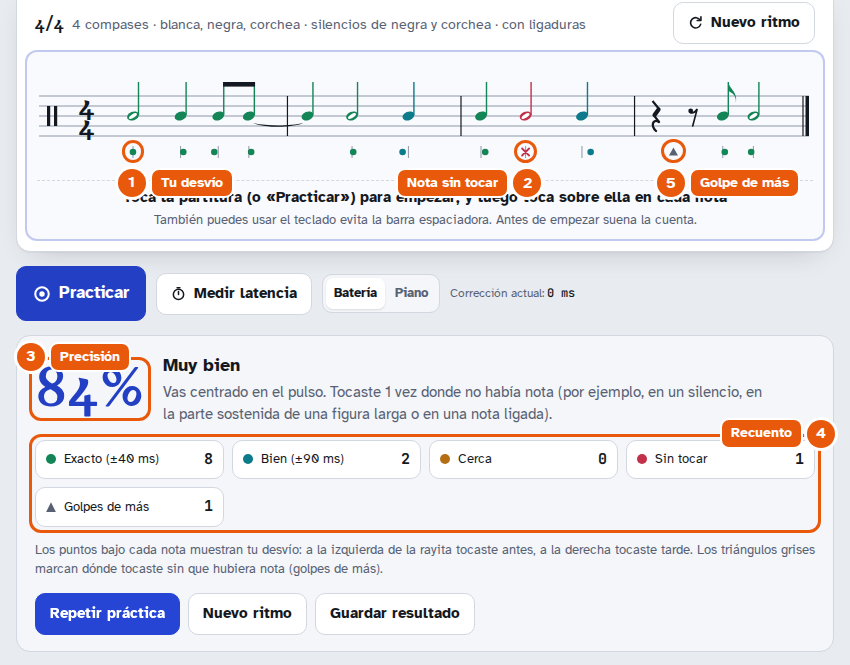
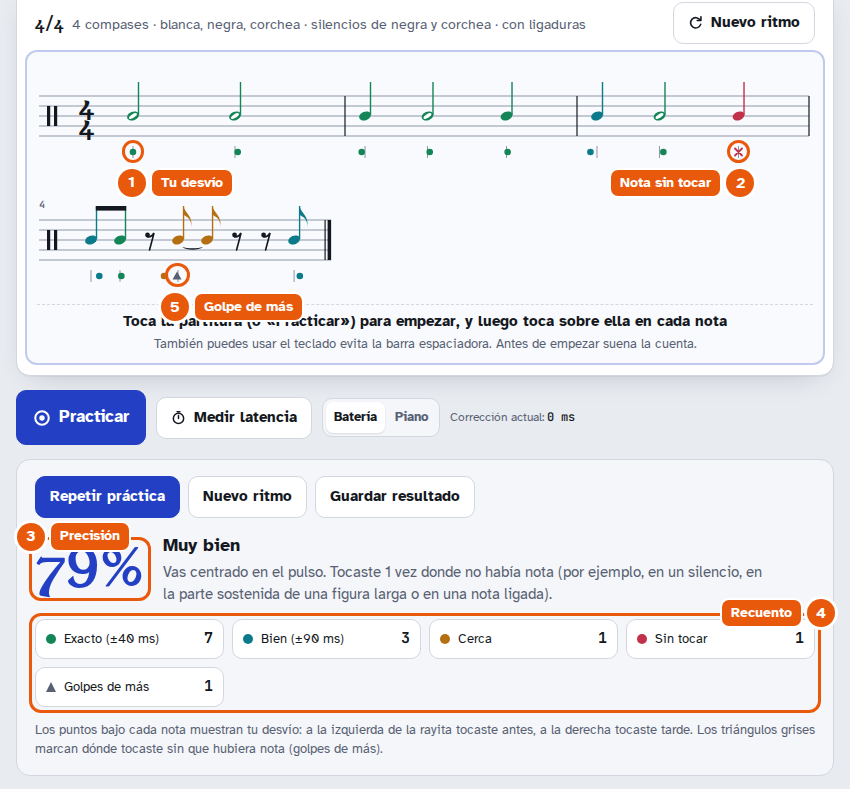
Botones de resultados arriba, junto a la partitura
- «Siguiente nivel», «Repetir práctica», «Nuevo ritmo» y «Guardar resultado»
  pasan a estar encima del porcentaje. «Siguiente nivel» solo aparece al
  superar un nivel de la campaña y es entonces el botón principal.
- Las estrellas y el mensaje del nivel quedan justo debajo del porcentaje.
- Al mostrar los resultados, la página se desplaza lo justo para que se vean
  los botones (también con el botón flotante en móvil).
- Captura de resultados del README y CLAUDE.md actualizados.

Claude-Session: https://claude.ai/code/session_01KR51CwVVXhtFmUshsMceNd

Changed region(s): [[0.0, 0.1203, 1.0, 0.9624], [0.0306, 0.0, 0.9788, 0.0902], [0.3976, 0.5113, 0.6729, 0.5414]]

diff --git a/index.html b/index.html
@@ -94,9 +94,21 @@
       </section>
 
       <section class="results" id="results" hidden>
+        <!-- acciones arriba, junto a la partitura; «Siguiente nivel» solo al superar un nivel de la campaña -->
+        <div class="res-actions" id="resActions">
+          <button class="btn primary" id="rcNext" type="button" hidden>Siguiente nivel</button>
+          <button class="btn primary" id="rAgain" type="button">Repetir práctica</button>
+          <button class="btn" id="rNew" type="button">Nuevo ritmo</button>
+          <button class="btn" id="rSave" type="button" hidden>Guardar resultado</button>
+          <span class="saved-note" id="rSaved" hidden></span>
+        </div>
         <div class="res-top">
           <div class="pct" id="rPct">0%</div>
           <div><h3 id="rHead"></h3><p id="rTrend"></p></div>
+        </div>
+        <div class="res-camp" id="rCamp" hidden>
+          <span class="stars" id="rcStars"></span>
+          <p id="rcText"></p>
         </div>
         <ul class="counts">
           <li><span class="sw-dot" style="background:var(--good)"></span>Exacto (±40 ms)<span class="n" id="cExact">0</span></li>
@@ -111,18 +123,7 @@
           <li><span class="sw-dot" style="background:var(--near)"></span>Soltaste antes<span class="n" id="dShort">0</span></li>
           <li><span class="sw-dot" style="background:var(--near)"></span>Soltaste tarde<span class="n" id="dLong">0</span></li>
         </ul>
-        <div class="res-camp" id="rCamp" hidden>
-          <span class="stars" id="rcStars"></span>
-          <p id="rcText"></p>
-          <button class="btn primary" id="rcNext" type="button">Siguiente nivel</button>
-        </div>
         <p class="res-note">Los puntos bajo cada nota muestran tu desvío: a la izquierda de la rayita tocaste antes, a la derecha tocaste tarde. Los triángulos grises marcan dónde tocaste sin que hubiera nota (golpes de más).<span id="durNote" hidden> En modo piano, la barra de debajo compara cuánto mantuviste la nota (color) con lo que debía durar (gris); la rayita marca dónde tenías que soltar.</span></p>
-        <div class="res-actions">
-          <button class="btn primary" id="rAgain" type="button">Repetir práctica</button>
-          <button class="btn" id="rNew" type="button">Nuevo ritmo</button>
-          <button class="btn" id="rSave" type="button" hidden>Guardar resultado</button>
-          <span class="saved-note" id="rSaved" hidden></span>
-        </div>
       </section>
     </section>
 
@@ -965,6 +966,9 @@ function showResults(notes, holds, endT){
     lvl: stageMode==='campana'?levelIdx:null, lid: stageMode==='campana'?LEVELS[levelIdx].id:null, sig:score.key, grp:score.grp, bars:score.bars, bpm:curBpm(), pct, n:N,
     exact:c.exact, good:c.good, near:c.near, miss:c.miss, extra:extras, mean, play:holdMode?'piano':'bateria', pen:!!set.penalize});
   $('#results').hidden=false;
+  // que los botones de los resultados queden a la vista (sin tapar la partitura más de lo necesario)
+  const ab=$('#resActions').getBoundingClientRect(), room=innerHeight-fabReserve();
+  if(ab.bottom>room) scrollTo({top:scrollY+ab.bottom-room+12, behavior:'smooth'});
 }
 
 /* ---------- Medición de latencia ---------- */
@@ -1259,7 +1263,8 @@ function afterPractice(r){
       next.hidden=true;
     }
     renderLevelBar(); renderCampMap();
-  } else rc.hidden=true;
+  } else { rc.hidden=true; $('#rcNext').hidden=true; }
+  $('#rAgain').classList.toggle('primary', $('#rcNext').hidden);
   if(set.autosave){ saveSession(r); save.hidden=true; saved.hidden=false; saved.textContent='Guardado en «Mi progreso».'; }
   else { if(r.mode==='campana') commitProg(); save.hidden=false; save.disabled=false; save.textContent='Guardar resultado'; saved.hidden=true; }
 }

diff --git a/CLAUDE.md b/CLAUDE.md
@@ -31,6 +31,8 @@ Nació como un Artifact publicado en claude.ai. Allí el progreso se guardaba en
 
 **Botón flotante (`#tapFab`):** en pantallas táctiles (`(any-pointer: coarse)`) y con `set.fab` activo (por defecto), `updateFab()` lo muestra fijo abajo: en reposo dice «Practicar» y solo aparece si la partitura está a la vista (`IntersectionObserver` → `padInView`); durante la práctica o la medición dice «Toca aquí». Se llama desde `showPad()` y `updateTransport()`. `bindTapZone(el, prefijo)` da a la partitura (`p…`) y al botón (`f…`) el mismo manejo de `pointerdown/up` → `tap`/`release`; `flashPad` y `setHeld` actúan sobre las dos zonas; `showCount` pone también la cuenta en el botón. `fabReserve()` es el alto que tapa el botón y lo descuentan `showPad` y `followScore` para que la línea actual y la siguiente queden por encima.
 
+**Resultados:** los botones (`#resActions`: «Siguiente nivel» `#rcNext`, «Repetir práctica», «Nuevo ritmo», «Guardar resultado») van arriba, antes del porcentaje, para que queden junto a la partitura; «Siguiente nivel» solo aparece al superar un nivel de la campaña y entonces «Repetir» deja de ser el botón principal. Al mostrar los resultados, la página se desplaza lo justo para que esos botones se vean (descontando `fabReserve()`).
+
 **Capturas del README:** están en `docs/capturas/`, hechas con Playwright (Chromium) a 1200 px (y 390 px ×2 la de móvil), con datos de ejemplo y marcadores numerados añadidos al DOM solo para la captura. Si cambia la interfaz, conviene rehacerlas.
 
 ## Convenciones y decisiones
